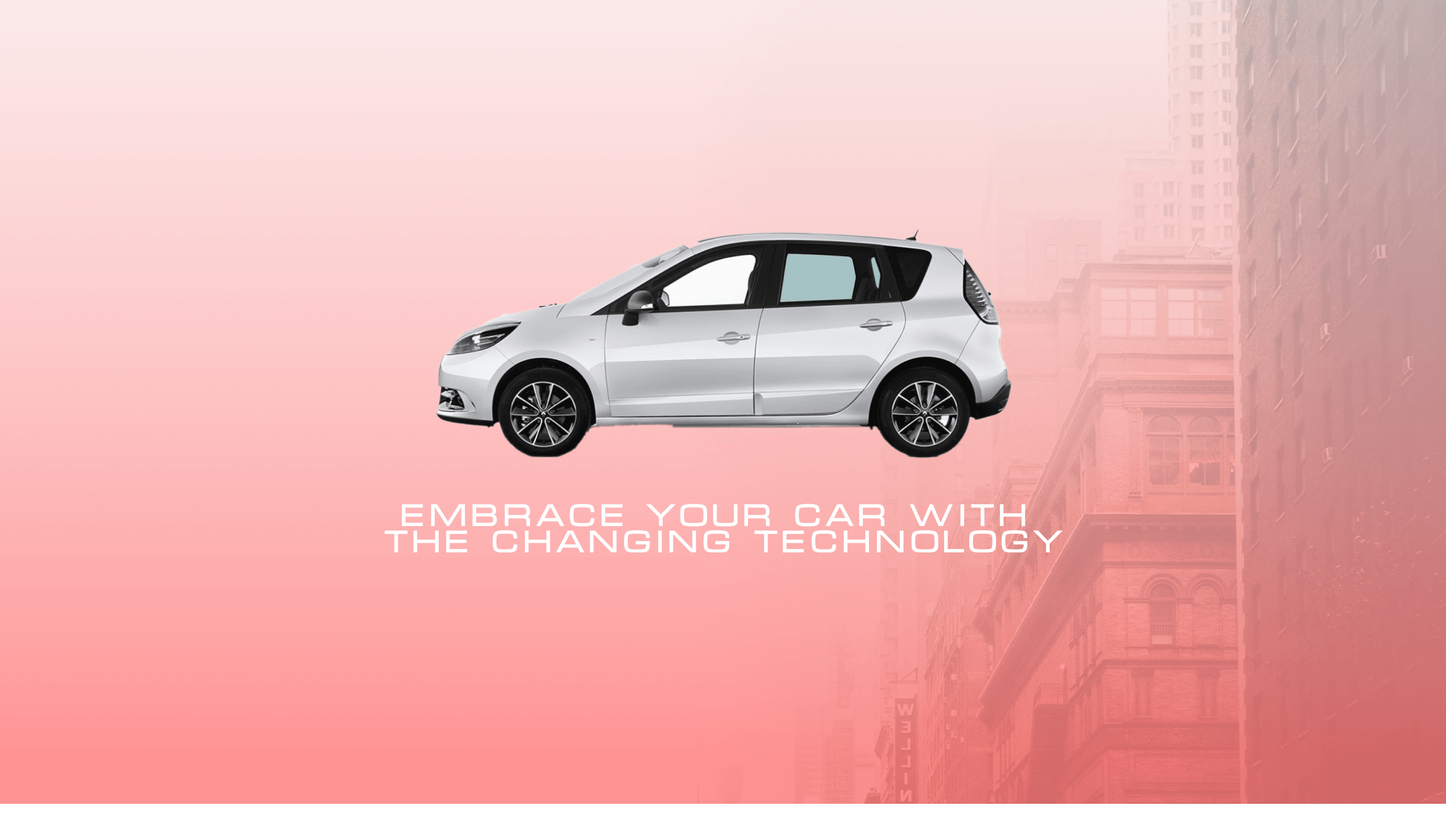
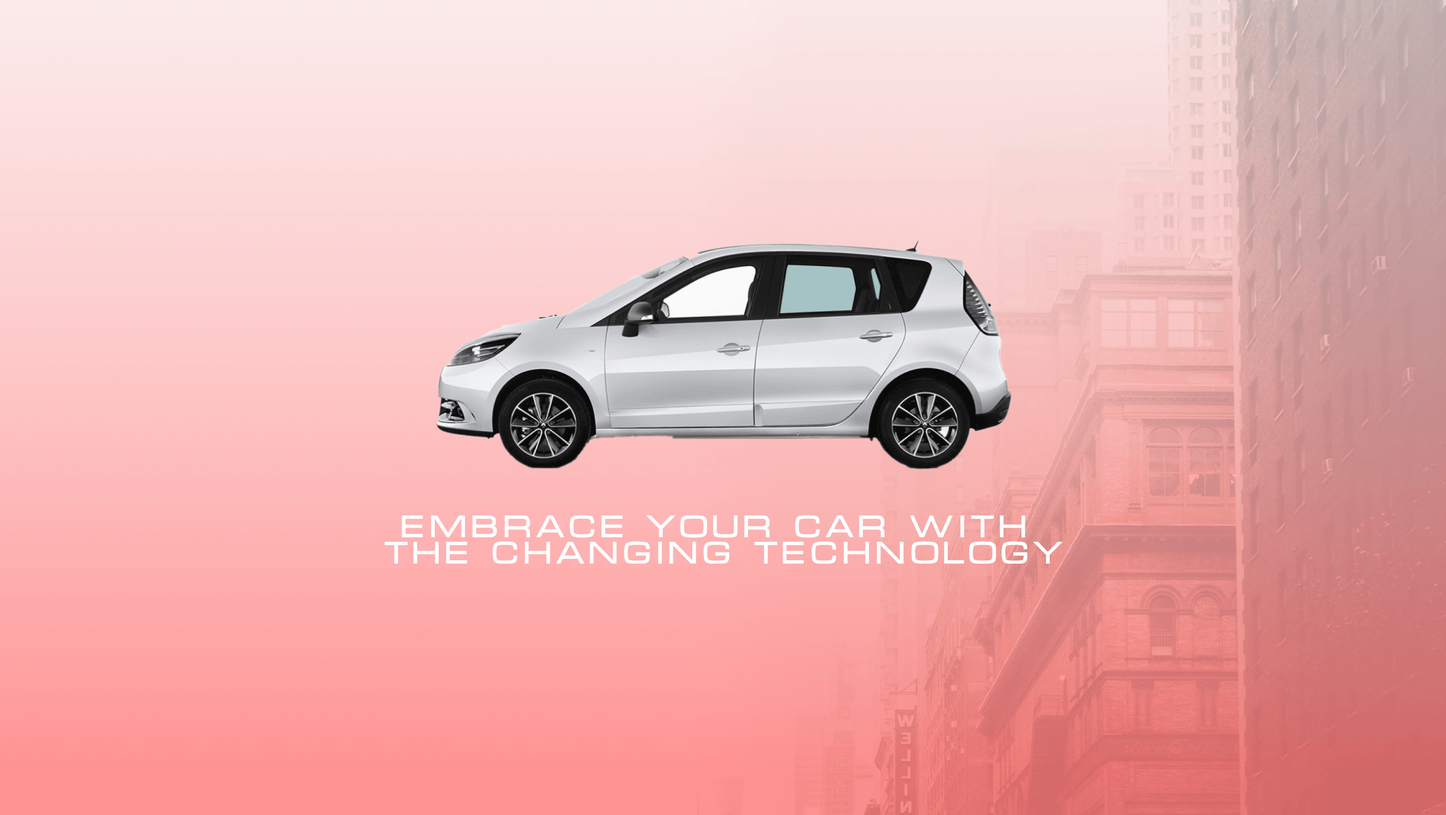
arrow from nav removed

diff --git a/src/style.scss b/src/style.scss
@@ -910,58 +910,33 @@
 #Technology{
     #TechLanding{
         .landing{
-              
+            background-image: url(../public/assets/Technology/landing1.png);
             
             
             .fg_img{
-                width: 100vw;
+                width: 100%;
                 position: absolute;
                 top: 0;
                 left: 0;
                 height: fit-content;
                 background-color: black;
-                animation: colapse 5s ease;
-                background-image: url(../public/assets/Technology/landing1.png);
+                animation: colapse 5s ease 1s;
+                background-image: url(../public/assets/Technology/landing2.png);
                 background-size:100vw;
                 background-repeat: no-repeat;
                 @keyframes colapse {
                     0%{
-                        height: 100vh;
-                        width: 100vw;
+                        height: 100%;
+                        width: 0%;
                     }
-                    // 25%{
-                    //     height: 100vh;
-                    //     width: 75vw;
-                    // }
-                    // 50%{
-                    //     width: 50vw;
-                    // }
-                    // 75%{
-                    //     width: 25vw;
-                    //     height: 100vh;
-                    // }
                     100%{
-                        height: 100vh;
-                        width: 0vw;
+                        height: 100%;
+                        width: 100%;
                     }
                     
                 }
                 
             }
-            background-image: url(../public/assets/Technology/landing2.png);
-            // background-size: 100vw;
-            // background: linear-gradient(to right, #ffffff 0%, #ffffff 5%, #0B132A 5%, #0B132A 100%);
-
-            .cars{
-                overflow: hidden;
-                height: 100vh;
-                display: flex;
-                justify-content: center;
-                align-items: center;
-
-                    
-            }
-            
             
         }
 

diff --git a/src/components/nav.jsx b/src/components/nav.jsx
@@ -1,5 +1,4 @@
 import React from 'react'
-import { DownOutlined } from '@ant-design/icons';
 import { Dropdown, Space } from 'antd';
 import { Link } from "react-router-dom";
 import { motion,  useScroll } from "framer-motion";
@@ -158,7 +157,6 @@ variants.hidden = { ...variants.hidden, background: "white" };
               <a onClick={(e) => e.preventDefault()}>
                 <Space>
                 <Link><li className="nav_elements">About</li></ Link>
-                  <DownOutlined />
                 </Space>
               </a>
             </Dropdown>
@@ -173,7 +171,6 @@ variants.hidden = { ...variants.hidden, background: "white" };
               <a onClick={(e) => e.preventDefault()}>
                 <Space>
                 <Link><li className="nav_elements">Technology</li></ Link>
-                  <DownOutlined />
                 </Space>
               </a>
             </Dropdown>
@@ -188,7 +185,6 @@ variants.hidden = { ...variants.hidden, background: "white" };
               <a onClick={(e) => e.preventDefault()}>
                 <Space>
                   <Link to="/Use_case"><li className="nav_elements">Use cases</li></ Link>
-                  <DownOutlined />
                 </Space>
               </a>
             </Dropdown>
@@ -203,8 +199,6 @@ variants.hidden = { ...variants.hidden, background: "white" };
               <a onClick={(e) => e.preventDefault()}>
                 <Space>
                 <Link><li className="nav_elements">News Room</li></ Link>
-                
-                  <DownOutlined />
                 </Space>
               </a>
             </Dropdown>

diff --git a/src/components/Technology_Landing.jsx b/src/components/Technology_Landing.jsx
@@ -20,11 +20,7 @@ export default function TechnologyLanding() {
   return (
     <div  id='TechLanding'>
       <motion.div ref={targetRef} className='basicLand landing'  style={{opacity, scale}}>
-      <div className="cars">
-        <div className="fg_img"/>
-
-
-      </div>
+      <div className="fg_img"/>
       
         <ul id="side_nav">
             <li><svg width="25" height="23" viewBox="0 0 25 23" fill="none" xmlns="http://www.w3.org/2000/svg">
